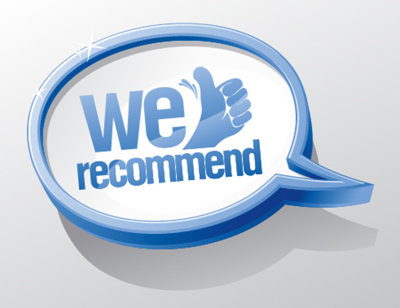
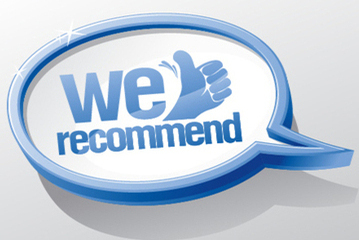
Features Images resized!

diff --git a/Recruiters_Friend/templates/common/index.html b/Recruiters_Friend/templates/common/index.html
@@ -50,7 +50,7 @@
                                 <i class="fa fa-search-plus fa-3x"></i>
                             </div>
                         </div>
-                        <img src="{% static "img/features/submarine.png"%}" class="img-responsive" alt="">
+                        <img src="{% static "img/features/safe.png"%}" class="img-responsive" alt="">
                     </a>
                 </div>
             </div>
